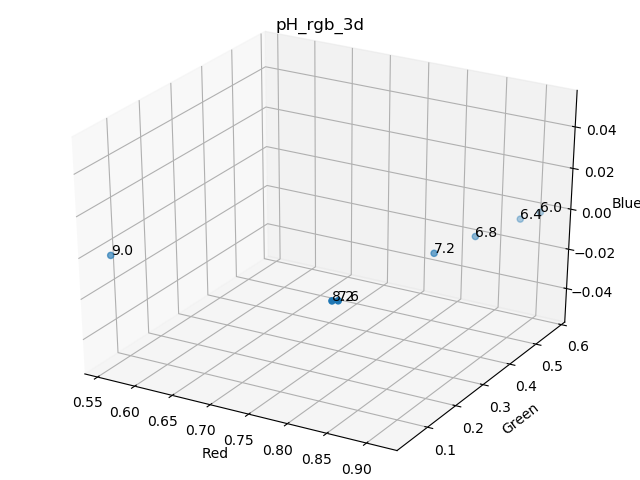
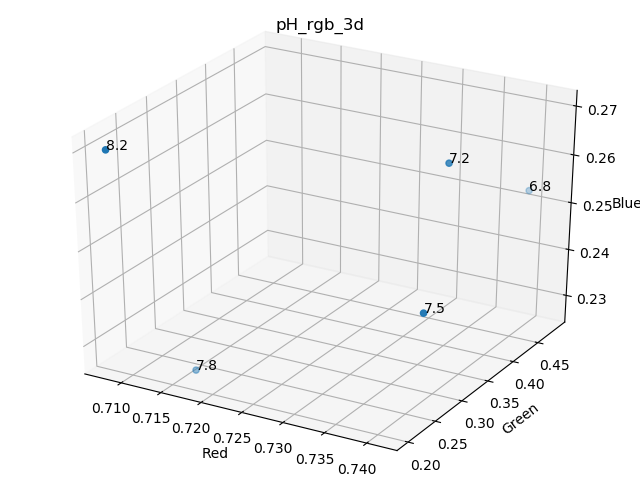
Created interpolated 3d graph representation of pH values.

diff --git a/prototype/test_sensing.py b/prototype/test_sensing.py
@@ -16,6 +16,95 @@ import logging as log
 from sensing import get_img, get_average_rgb_from_img, get_scale_map, get_distance_between_points_3d
 import init 
 
+
+def interpolate_rgb_values(chemical, value):
+    scale = get_scale_map(chemical)
+
+    # find closest two
+    count = 0
+
+    low_value = 0
+    high_value = 9999999
+
+    for key in scale:
+        dif = value - float(key)
+
+        print(float(key))
+
+        if dif == 0:
+            # return rgb values 
+            print
+            return [value,scale[key]], [value,scale[key]], [value,scale[key]]
+        elif dif > 0 and float(key) > low_value:
+            low_value = float(key)
+#            print("Low: " + str(low_value))
+        elif dif < 0 and float(key) < high_value:
+            high_value = float(key)
+#            print("High: " + str(high_value))
+
+    print(str(value) + " between " + str(low_value) + " and " + str(high_value)) 
+
+    # interpolate rgb values 
+    ratio = (float(value) - low_value) / (float(high_value) - float(low_value))
+    inter_r = float(255 * scale[str(low_value)][0] + (scale[str(high_value)][0] - scale[str(low_value)][0]) * ratio * 255) / 255.0
+    inter_g = float(255 * scale[str(low_value)][1] + (scale[str(high_value)][1] - scale[str(low_value)][1]) * ratio * 255) / 255.0 
+    inter_b = float(255 * scale[str(low_value)][2] + (scale[str(high_value)][2] - scale[str(low_value)][2]) * ratio * 255) / 255.0 
+
+    print(inter_r, inter_g, inter_b)
+
+    low_rgb = scale[str(low_value)]# [float(255*val) for val in scale[str(low_value)]]
+    high_rgb = scale[str(high_value)] # [float(255*val) for val in scale[str(high_value)]]
+
+    print(low_rgb)
+    print(high_rgb)
+
+    return [value,[inter_r, inter_g, inter_b]], [low_value,low_rgb], [high_value,high_rgb]
+
+
+def create_interpolated_rgb_graph(chemical, increments=10, labels=False):
+    scale = get_scale_map(chemical)
+
+    red = []
+    green = []
+    blue = []
+    values = []
+
+    # 3D Plot
+    fig = plt.figure()
+    ax = Axes3D(fig)
+
+    previous_key = "" 
+    for key in sorted (scale.keys()): 
+        # interpolate increments amount towards next key 
+        if len(red) > 0:
+            inc_size = (float(key) - float(previous_key)) / float(increments)
+            for i in range(1,increments):
+                print("Interpolating " + str(float(previous_key) + inc_size * i))
+                actual,low,high = interpolate_rgb_values(chemical, float(previous_key) + inc_size * i)
+                red.append(actual[1][0])
+                green.append(actual[1][1])
+                blue.append(actual[1][2])
+                if labels:
+                    ax.text(red[-1],green[-1],blue[-1],str(float(previous_key) + inc_size * i))
+
+        red.append(scale[key][0])
+        green.append(scale[key][1])
+        blue.append(scale[key][2])
+        ax.text(red[-1],green[-1],blue[-1],key)
+
+        previous_key = key
+
+    ax.scatter(red,green,blue)
+
+    ax.set_title(chemical + '_rgb_3d')
+    ax.set_xlabel("Red")
+    ax.set_ylabel("Green")
+    ax.set_zlabel("Blue")
+
+    plt.savefig('./research/' + chemical + '/rgb_interpolated_3d.png')
+    plt.show()
+
+
 def create_scale_hue_graph(chemical):
     scale = get_scale_map(chemical)
 
@@ -99,53 +188,15 @@ def create_scale_hue_graph(chemical):
     plt.show()
 
 
-def interpolate_rgb_values(chemical, value):
-    scale = get_scale_map(chemical)
-
-    # find closest two
-    count = 0
-
-    low_value = 0
-    high_value = 9999999
-
-    for key in scale:
-        dif = value - float(key)
-
-        print(float(key))
-
-        if dif == 0:
-            print("Exact match! WARNING NOT IMPLEMENTED")
-        elif dif > 0 and float(key) > low_value:
-            low_value = float(key)
-#            print("Low: " + str(low_value))
-        elif dif < 0 and float(key) < high_value:
-            high_value = float(key)
-#            print("High: " + str(high_value))
-
-    print(str(value) + " between " + str(low_value) + " and " + str(high_value)) 
-
-    # interpolate rgb values 
-    ratio = (float(value) - low_value) / (float(high_value) - float(low_value))
-    inter_r = int(255 * scale[str(low_value)][0] + (scale[str(high_value)][0] - scale[str(low_value)][0]) * ratio * 255) 
-    inter_g = int(255 * scale[str(low_value)][1] + (scale[str(high_value)][1] - scale[str(low_value)][1]) * ratio * 255) 
-    inter_b = int(255 * scale[str(low_value)][2] + (scale[str(high_value)][2] - scale[str(low_value)][2]) * ratio * 255) 
-
-    print(inter_r, inter_g, inter_b)
-
-    low_rgb = [int(255*val) for val in scale[str(low_value)]]
-    high_rgb = [int(255*val) for val in scale[str(high_value)]]
-
-    print(low_rgb)
-    print(high_rgb)
-
-    palette = np.array([low_rgb,
-               [inter_r, inter_g, inter_b],
-                high_rgb])
+def visualize_interpolation(chemical, actual_rgb, low_rgb, high_rgb):
+    palette = np.array([low_rgb[1],
+                actual_rgb[1],
+                high_rgb[1]])
 
     indices = np.array([[0,1,2]])
 
     io.imshow(palette[indices])
-    plt.title(chemical + ' ' + str(low_value) + ',' + str(value) + ',' + str(high_value))
+    plt.title(chemical + ' ' + str(low_rgb[0]) + ',' + str(actual_rgb[0]) + ',' + str(high_rgb[0]))
     plt.show()
 
 if __name__ == '__main__':
@@ -154,12 +205,16 @@ if __name__ == '__main__':
 
     init.init(arg_vals['verbose'])
 
-    interpolate_rgb_values('pH',6.2)
-    interpolate_rgb_values('pH',6.9)
-    interpolate_rgb_values('pH',7.4)
-    interpolate_rgb_values('pH',7.8)
+    create_interpolated_rgb_graph('pH', 5, True)
 
-#    create_scale_hue_graph('pH')
+    test_values = [['pH',6.8],['pH',7.0],['pH',7.3],['pH',7.4]]
+
+    for value_pair in test_values:
+        actual_rgb, low_rgb, high_rgb = interpolate_rgb_values(value_pair[0], value_pair[1])
+        visualize_interpolation('pH', actual_rgb, low_rgb, high_rgb)
+
+
+    create_scale_hue_graph('pH')
 #    create_scale_hue_graph('Cl')
 #    create_scale_hue_graph('alkalinity')
 
